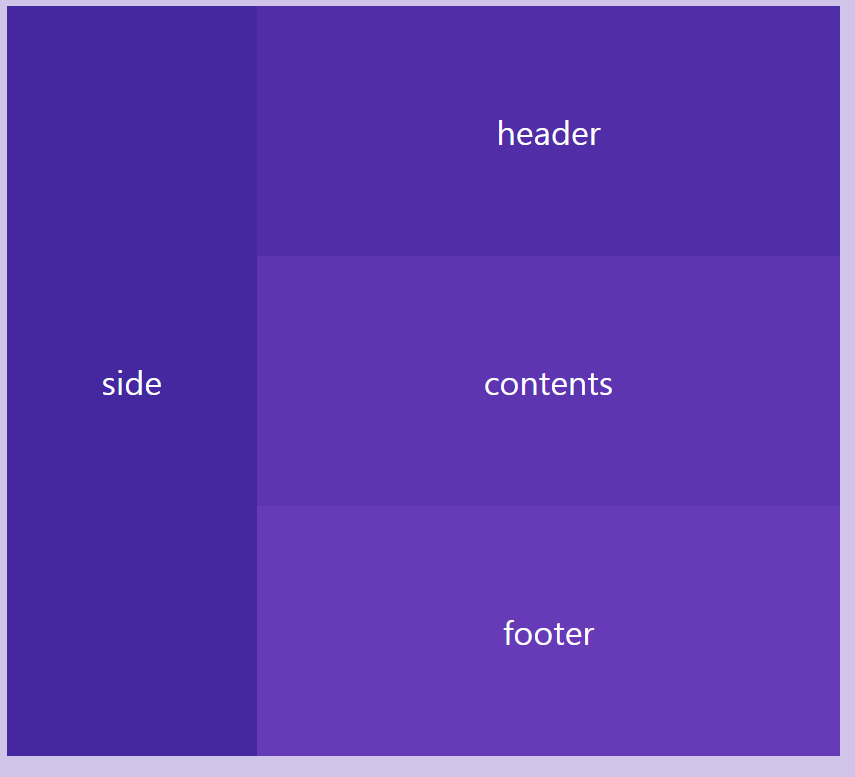
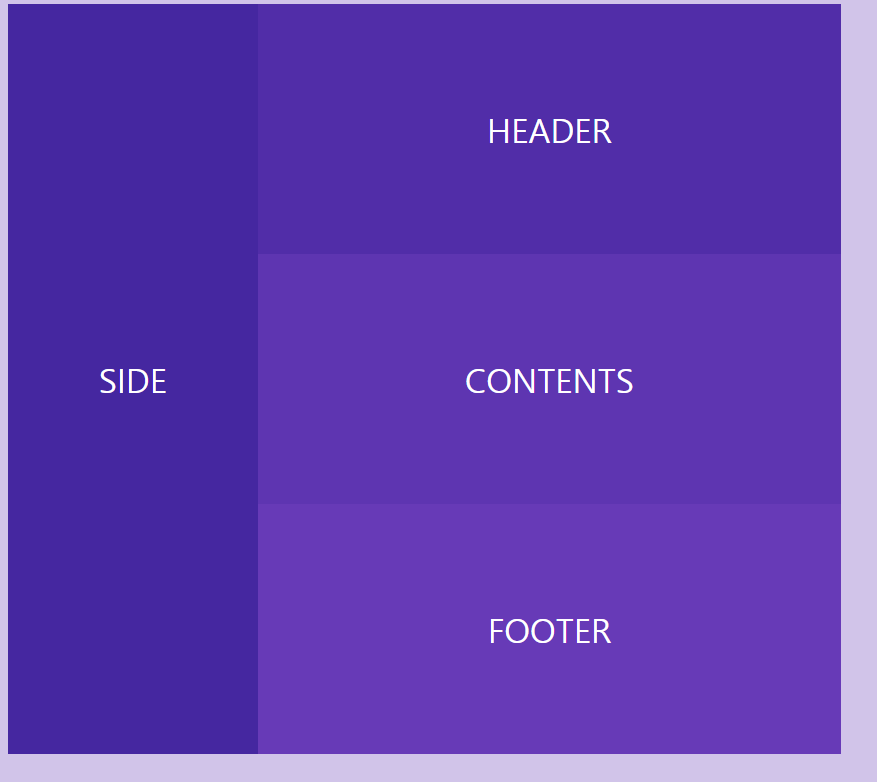
layout4 commit

diff --git a/layout3.html b/layout3.html
@@ -7,7 +7,7 @@
   <title>Document</title>
   <style>
     body {background-color: #d1c4e9;}
-    #wrap {width: 1000px; height: 900px; margin: 0 auto; font-size: 40px; color:#fff; text-align: center; }
+    #wrap {width: 1000px; height: 900px; margin: 0 auto; font-size: 40px; color:#fff; text-align: center;text-transform : uppercase; }
     .side {float: left; width: 300px; height: 900px; line-height: 900px; background-color: #4527a0;}
     .header {float: left; width: 700px; height: 300px; line-height: 300px; background-color: #512da8;}
     .contents {float: left; width: 700px; height: 300px; line-height: 300px; background-color: #5e35b1;}

diff --git a/README.md b/README.md
@@ -13,3 +13,7 @@ layout2.html
 layout3.html
 --------------
 <img src="/image/layout3.png" width=50%>
+
+layout4.html
+--------------
+<img src="/image/layout4.png" width=50%>
